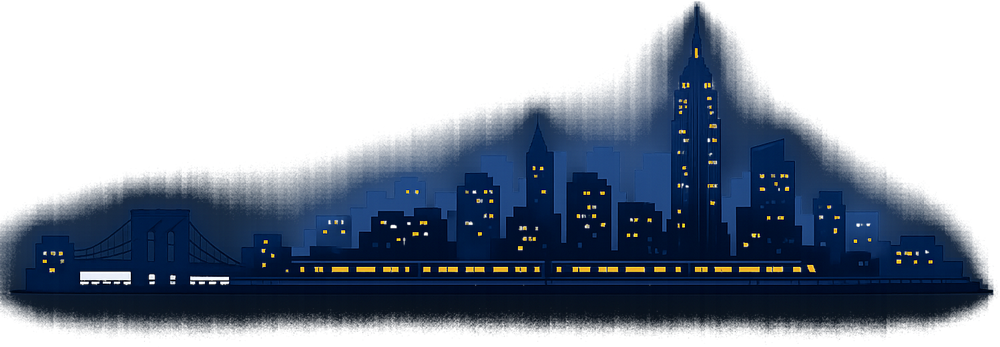
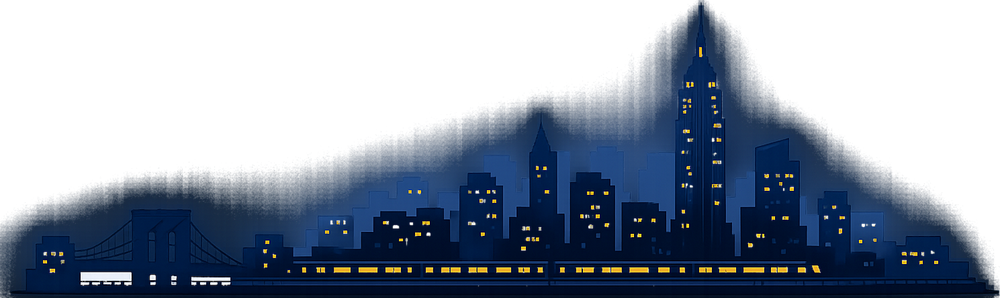
Listening skyline: sit flush on the card's bottom line, softer opacity
Crop the dark opaque ground band below the train (it blended into the card
and read as a gap) so the city sits flush on the bottom edge, and drop the
footer opacity 0.42 -> 0.28 for a subtler look.

diff --git a/css/components/exercises.css b/css/components/exercises.css
@@ -400,7 +400,7 @@
   position: absolute;
   inset: 0;
   z-index: 0;
-  opacity: 0.42;
+  opacity: 0.28;
   pointer-events: none;
   background: url("../../assets/listening/unit1/skyline.png") no-repeat center bottom / 100% auto;
 }
